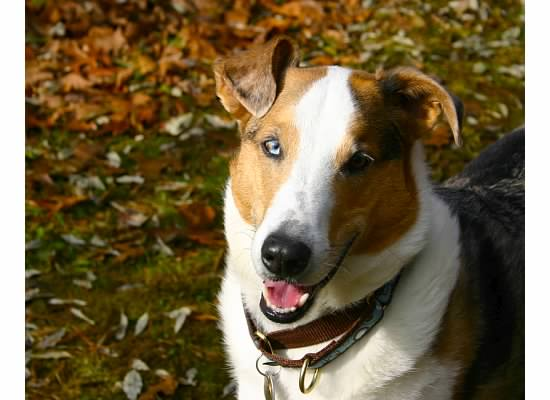
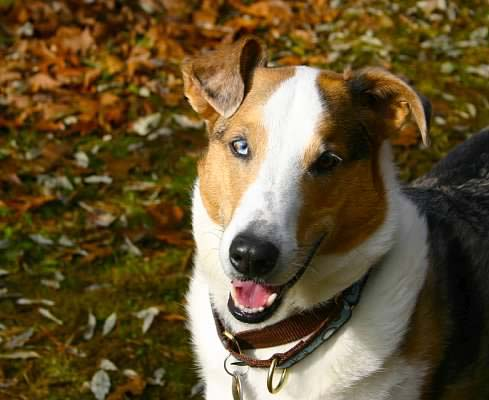
Updated Home Page and re-sized image

diff --git a/src/App.css b/src/App.css
@@ -11,22 +11,16 @@
 .header {
     padding-top:0%;
     width:100%;
-    # background-color:white;
-    # background-color:rgb(167,198,228);
     background-color:rgb(75,76,77);
 }
 
 .topLine {
-    # display: inline-block;
-    # background-color:blue;
-    #   background-color:rgb(164,200,225);
     background-color:rgb(167,198,228);
     width:100%;
     height:5px;
 }
 
 .menu {
-    # background-color:rgb(75,76,77);
     background-color:rgb(167,198,228);
     height:5%;
 }
@@ -37,7 +31,6 @@
 }
 
 .menuItem a {
-    # color:white;
     color:black;
 }
 
@@ -46,35 +39,23 @@
     float:left;
     align:center;
     margin-left:5%;
-    # border-style:solid;
     width:30%;
     height:70%;
-    # background-color:blue;
 }
 
 .logo img {
-    # height: auto;
-    # height:100%;
     width: 100%;
     overflow:hidden;
-    # background-color:blue;
 }
 
 .contactInfo {
-    # width: 30%;
-    # height:70%;
     color:white;
     text-align:right;
     float:right;
     margin-right:3%;
     padding-top:3%;
-    # align:center;
     font-family:"Dubai,Arial";
     font-size:15px;
-    # border:10px;
-    # border-style: solid;
-    # width:25%;
-    # border-width: 1px;
 }
 
 .contactInfo a {
@@ -83,61 +64,31 @@
 }
 
 .homePage {
-    # float:left;
-    # width:95%;
-    # height:95%;
-    # background-image: url("/img/brisbane_leaves.jpg");
-    # background-size: 100% 100%;
-    # background-repeat: no-repeat;
+     width:100%;
     background-color:white;
-   #background-color: green;
 }
 
-.homeImg {
-  # background-color: green;
-}
 
 .homePage img {
-#  border-style:solid;
-#  position: relative;
-#  float: left;
-  width: 95%;
- filter: brightness(75%);
-#  background-color: blue;
-   # z-index: -1;
+  # position: relative;
+  width: 100%;
+  filter: brightness(70%);
 }
 
 .homeText {
- position   : absolute;
-# border-style:solid;
- #  position: relative;
- #   float:left;
-   # top: 50%;
-   left: 10%;
+    position: absolute;
+   left: 5%;
    width:35%;
-#    height: 80%;
-   font-size: 130%;
-   # font-weight: bold;
-   font-weight: 900;
+   font-size: 3.5vw;
+   font-weight: bold;
    color: rgb(167,198,228);
    text-align:left;
-  #  background-color: green;
-   # z-index: -1;
-   # color: blue;
-
+   font-family:"Dubai,Arial";
 }
 
 .homeTextTop {
-# position: relative;
-  margin-top: 50%;
-#  color: red;
-# border-style:solid;
-
 }
 .homeTextBottom {
-#  color:green;
-  margin-bottom:5%;
-# border-style:solid;
 
 }
 
@@ -145,9 +96,7 @@
     font-size:200%;
     padding-top:2%;
     margin-left: 2%;
-    # margin-right: 5%;
     text-align:center;
-    # align:center;
     background-color:white;
     font-family:"Dubai,Arial";
 }

diff --git a/src/components/homecontent.js b/src/components/homecontent.js
@@ -5,11 +5,13 @@ export default class Body extends Component {
     return (
 
         <div className="homePage" >
-            <span className="homeImg"><img src="img/brisbane_leaves.jpg"/></span>
+            <img src="img/brisbane_leaves.gif"/>
+
             <span className="homeText">
                <span className="homeTextTop"><p>Private, custom dog training based on trust and cooperation</p></span>
                <span className="homeTextBottom"><p>Let’s start the journey to your best dog, today!</p></span>
             </span>
+
         </div>
 
     );

diff --git a/src/components/menu.js b/src/components/menu.js
@@ -6,11 +6,11 @@ export default class Menu extends Component {
       <div className="menu">
             <span className="menuItem">&nbsp;</span>
 
-            {/*
                   <span className="menuItem"><a href="/home">home</a></span>
                   <span className="menuItem"><a href="/about">about</a></span>
 
 
+            {/*
 
             <span className="menuItem"><a href="/services">services</a></span>
 
